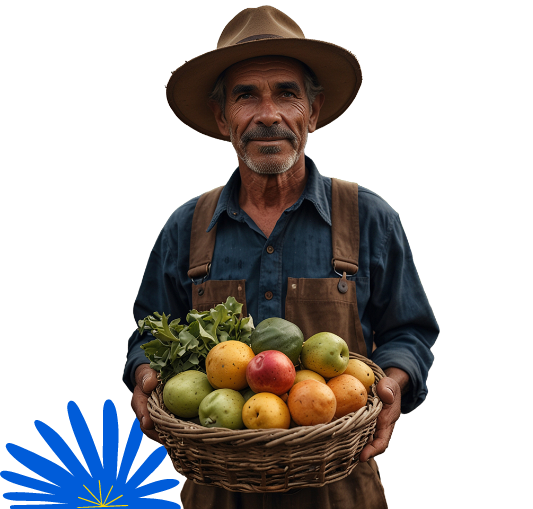
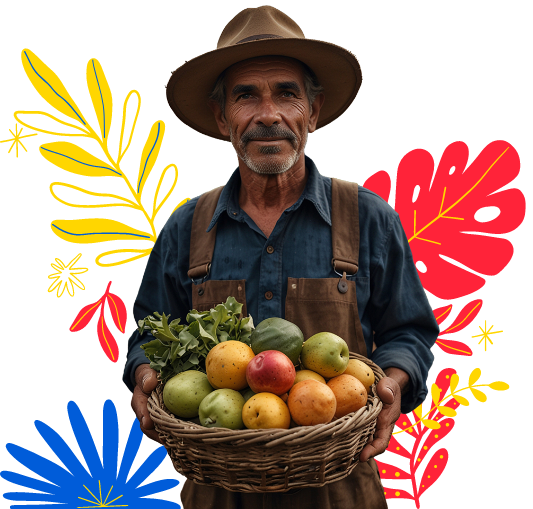
Ajustes 3

Changed region(s): [[0.6604, 0.2652, 0.9906, 1.0], [0.0, 0.0884, 0.3602, 0.5894], [0.1201, 0.5599, 0.2402, 0.7073]]

diff --git a/src/config/global.js b/src/config/global.js
@@ -374,7 +374,8 @@ export default {
       autores: [
         {
           nombre: 'Milady Tatiana Villamil Castellanos',
-          cargo: 'Responsable del equipo',
+          cargo:
+            'Responsable Ecosistema de Recursos Educativos Digitales (RED)',
           centro: 'Dirección General',
         },
         {
@@ -389,12 +390,13 @@ export default {
       autores: [
         {
           nombre: 'Leidi Paola Mulcué Vitopía',
-          cargo: 'Instructora',
-          centro: 'Centro Nacional de Hotelería, Turismo y Alimentos',
+          cargo: 'Experta temática',
+          centro:
+            'Centro Nacional de Hotelería, Turismo y Alimentos - Regional Distrito Capital',
         },
         {
           nombre: 'Lina Marcela Pérez Manchego',
-          cargo: 'Diseñadora de contenidos digitales',
+          cargo: 'Diseñadora web',
           centro: 'Centro de Comercio y Servicios - Regional Tolima',
         },
       ],
@@ -403,7 +405,12 @@ export default {
       titulo: 'DISEÑO Y DESARROLLO DE RECURSOS EDUCATIVOS DIGITALES',
       autores: [
         {
-          nombre: 'Daniel Polanco',
+          nombre: 'Oscar Ivan Uribe Ortiz',
+          cargo: 'Diseñador web',
+          centro: 'Centro de Comercio y Servicios - Regional Tolima',
+        },
+        {
+          nombre: 'Juan Daniel Polanco Muñoz',
           cargo: 'Diseñador web',
           centro: 'Centro de Comercio y Servicios - Regional Tolima',
         },
@@ -413,7 +420,7 @@ export default {
           centro: 'Centro de Comercio y Servicios - Regional Tolima',
         },
         {
-          nombre: 'Junior Rodriguez Rodriguez',
+          nombre: 'Gilberto Junior Rodríguez Rodríguez',
           cargo: 'Animador y productor audiovisual',
           centro: 'Centro de Comercio y Servicios - Regional Tolima',
         },
@@ -423,12 +430,12 @@ export default {
       titulo: 'VALIDACIÓN RECURSO EDUCATIVO DIGITAL',
       autores: [
         {
-          nombre: 'Jorge Rueda',
+          nombre: 'Jorge Eduardo Rueda Peña',
           cargo: 'Evaluador de contenidos inclusivos y accesibles',
           centro: 'Centro de Comercio y Servicios - Regional Tolima',
         },
         {
-          nombre: 'Jorge Bustos',
+          nombre: 'Jorge Bustos Gómez',
           cargo: 'Validador y vinculador de recursos educativos digitales',
           centro: 'Centro de Comercio y Servicios - Regional Tolima',
         },
